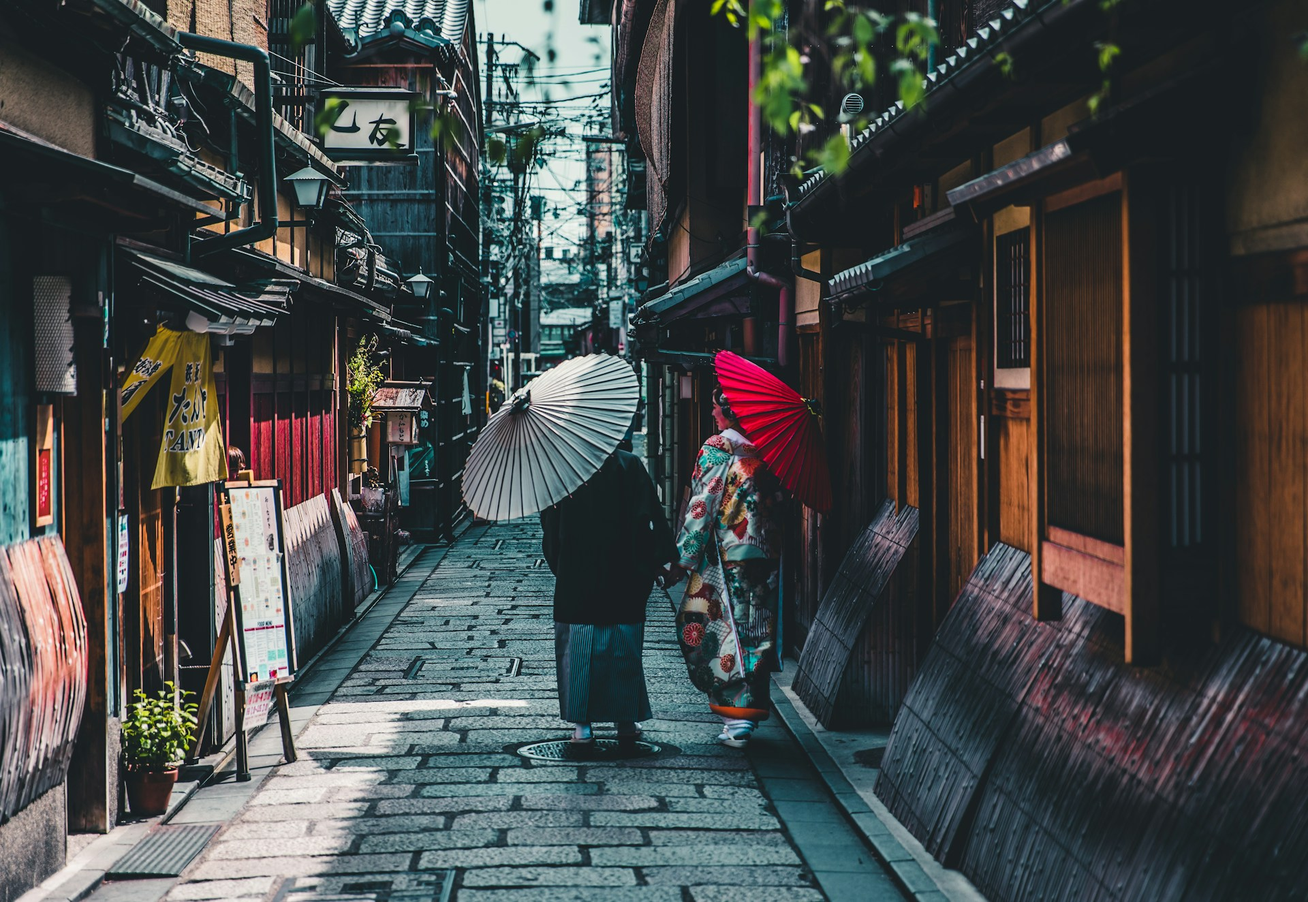
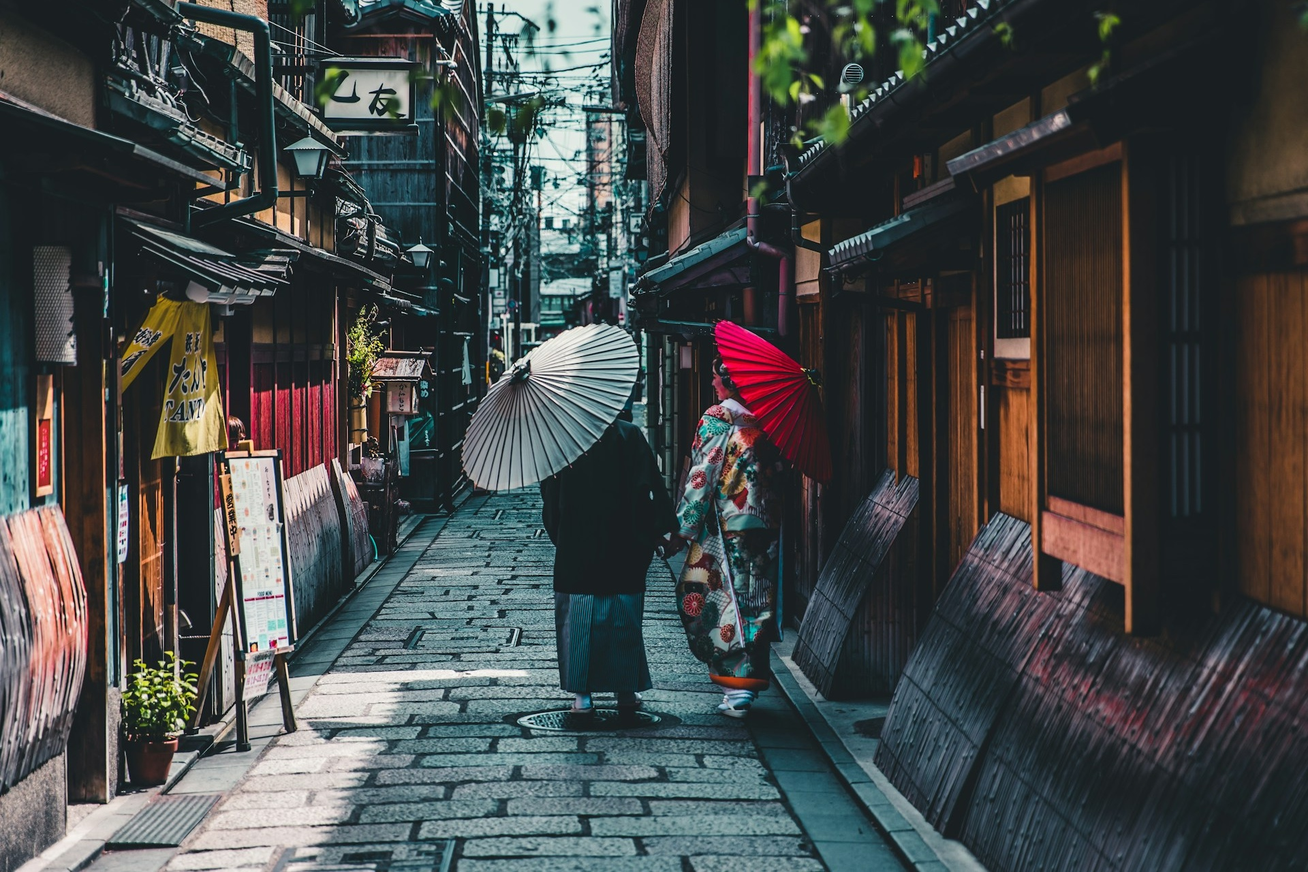
updated content for locations section

diff --git a/index.html b/index.html
@@ -15,15 +15,15 @@
   <body>
     <div class="container">
       <header>
-        <h1>Japan</h1>
+        <h1>JAPAN</h1>
         <h3>A country that is on top of my travel bucket list</h3>
       </header>
       <main>
-        <section>
-          <h2>Activities</h2>
+        <section class="locations">
+          <h2>TRAVEL ACROSS JAPAN</h2>
           <div class="activities">
             <div class="activity-row">
-              <img src="/images/Tokyo-4.jpg" />
+              <img src="/images/Tokyo.jpg" />
               <h4>Tokyo</h4>
               <p>
                 Tokyo is a city of contrasts, where neon-lit skyscrapers tower
@@ -54,7 +54,7 @@
               </p>
             </div>
             <div class="activity-row">
-              <img src="/images/Kyoto-4.jpg" />
+              <img src="/images/Nara.jpg" />
               <h4>Nara</h4>
               <p>
                 Nara is where Japan’s ancient spirit comes alive, blending vast
@@ -71,7 +71,7 @@
           </div>
           <div class="activities">
             <div class="activity-row">
-              <img src="/images/Tokyo-4.jpg" />
+              <img src="/images/Hiroshima.jpg" />
               <h4>Hiroshima</h4>
               <p>
                 Hiroshima is a city of resilience, rebuilt from tragedy into a
@@ -81,11 +81,13 @@
                 remembrance—it’s also alive with riverside walks, bustling
                 nightlife, and hearty local food. Be sure to try Hiroshima-style
                 okonomiyaki, a layered pancake dish grilled right in front of
-                you. Few cities balance sorrow and hope with such grace.
+                you. Few cities balance sorrow and hope with such grace. Take a
+                quiet moment at the Atomic Bomb Dome, where history stands in
+                powerful silence.
               </p>
             </div>
             <div class="activity-row">
-              <img src="/images/Kyoto-4.jpg" />
+              <img src="/images/Miyajima.jpg" />
               <h4>Miyajima</h4>
               <p>
                 Just a short ferry ride from Hiroshima lies Miyajima, a small
@@ -96,11 +98,12 @@
                 sweeping panoramas across the Inland Sea. Street stalls tempt
                 you with grilled oysters and maple-leaf shaped cakes, local
                 specialties. Miyajima radiates a calm, otherworldly beauty that
-                lingers long after you leave.
+                lingers long after you leave. Stay past dusk to see the torii
+                gate illuminated.
               </p>
             </div>
             <div class="activity-row">
-              <img src="/images/Kyoto-4.jpg" />
+              <img src="/images/Osaka.jpg" />
               <h4>Osaka</h4>
               <p>
                 Osaka is Japan’s kitchen—loud, colorful, and full of flavor. The
@@ -109,7 +112,8 @@
                 sizzling griddles. The city has a playful, welcoming vibe, less
                 polished than Tokyo but equally magnetic. By day, explore Osaka
                 Castle and riverside parks; by night, dive into the buzzing
-                nightlife where laughter spills into the streets. Osaka is the
+                nightlife where laughter spills into the streets. Cap it off
+                with a ride on the giant Tempozan Ferris Wheel. Osaka is the
                 place to eat, drink, and let loose before your journey ends.
               </p>
             </div>

diff --git a/style.css b/style.css
@@ -1,3 +1,7 @@
+body {
+  background-color: #be877f;
+}
+
 .container {
   max-width: 1400px;
   margin: 0px auto;
@@ -12,7 +16,7 @@ header {
 }
 
 header h1 {
-  margin: 30px 0;
+  margin: 30px 0 0 0;
   line-height: 1;
   font-size: 96px;
   font-weight: 800;
@@ -29,16 +33,26 @@ header h3 {
   font-family: "Noto Sans JP", sans-serif;
 }
 
+.locations {
+  background-color: #ead9d6;
+}
+
 .activities {
   display: flex;
 }
 
 .activity-row {
+  background-color: #edede9;
   padding: 15px;
-  border: 1px solid grey;
+  border: 1px solid #be877f;
   border-radius: 5px;
+  box-shadow: 8px 10px 5px -5px rgba(190, 135, 127, 0.75);
   margin: 10px 5px;
   text-align: center;
+}
+
+.activity-row p {
+  padding: 3px;
 }
 
 .activity-row img {
@@ -48,8 +62,11 @@ header h3 {
 
 h2 {
   font-family: "Poppins", sans-serif;
-  font-size: 32px;
+  font-size: 40px;
+  font-weight: 800;
   text-align: center;
+  margin: 0;
+  padding: 20px 0;
 }
 
 h4 {
